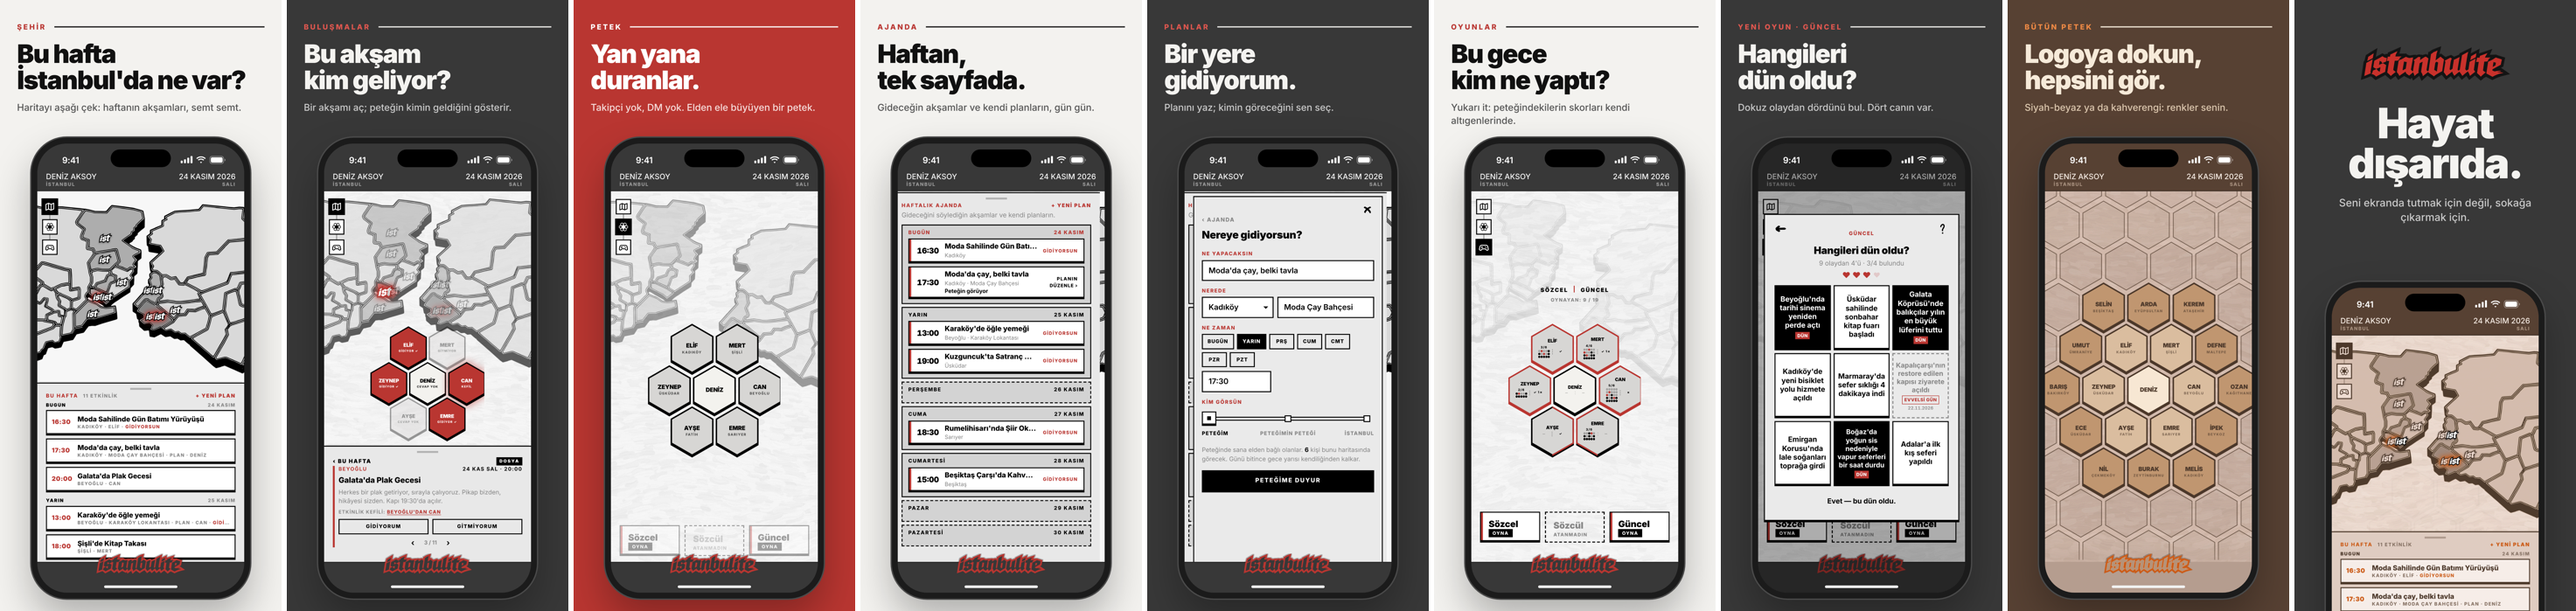
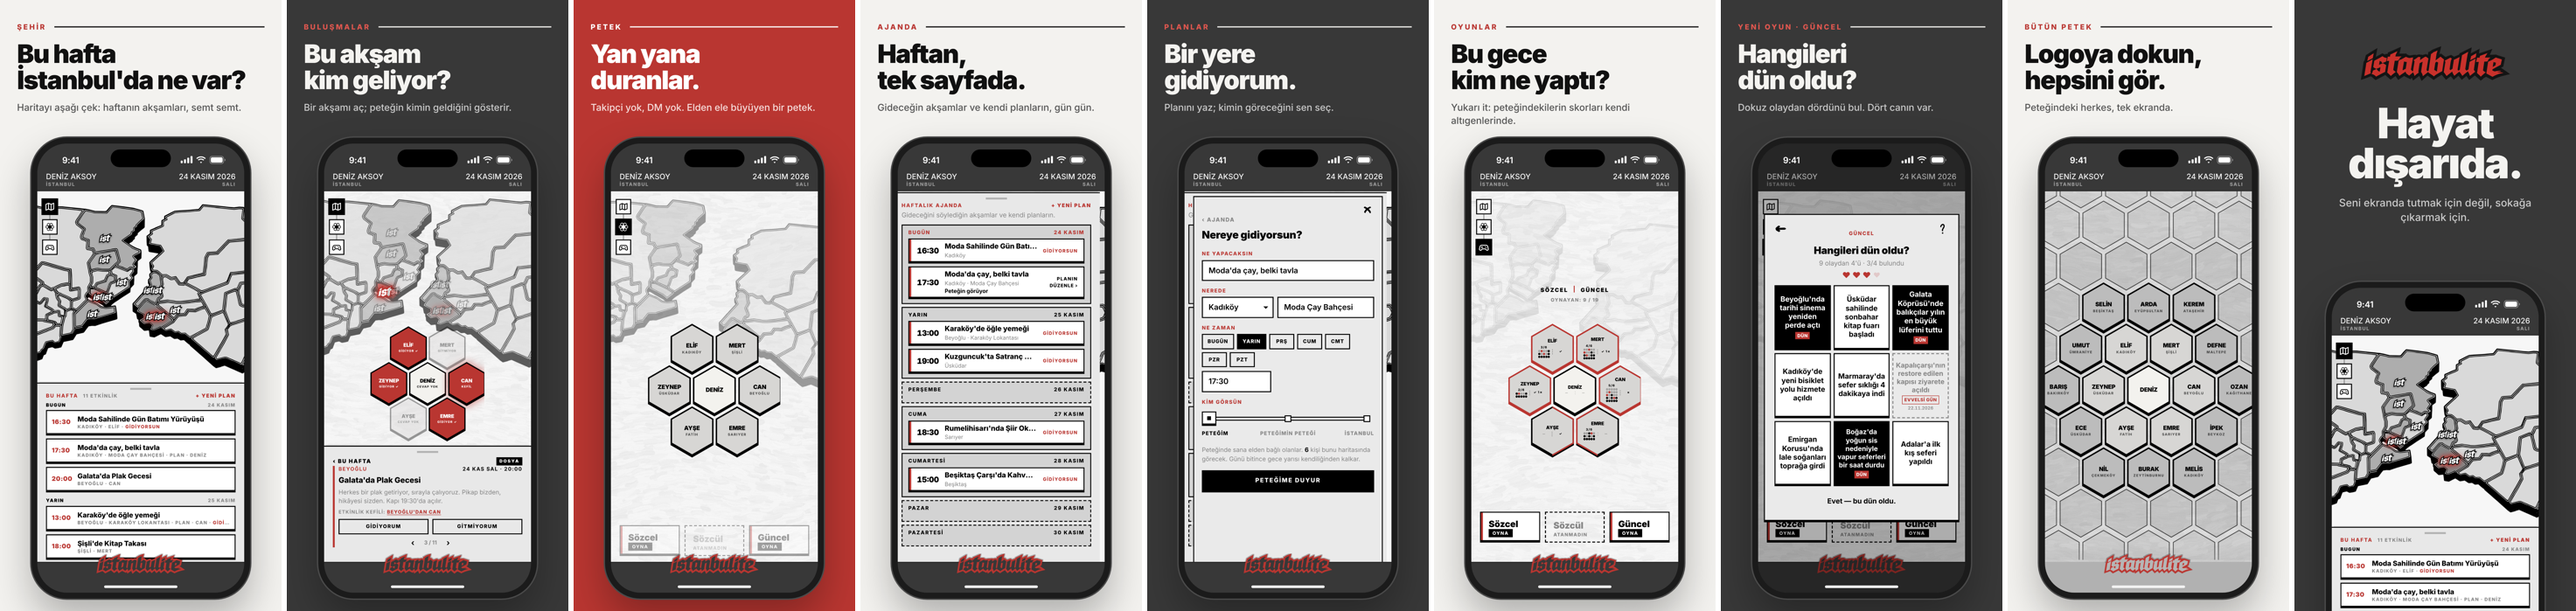
App Store set: black-and-white palette only
Claude-Session: https://claude.ai/code/session_01WehEzUZznKSkxK5yJwXUyi

Changed region(s): [[0.7807, 0.0, 0.9993, 1.0]]

diff --git a/scripts/appstore/compose.js b/scripts/appstore/compose.js
@@ -11,8 +11,8 @@ const FRAMES = [
   { n:'05-plan', img:'plan-day-mono', bar:MONO, bg:'dark', k:'Planlar', h:'Bir yere|gidiyorum.', p:'Planını yaz; kimin göreceğini sen seç.' },
   { n:'06-oyunlar', img:'oyunlar-day-mono', bar:MONO, bg:'', k:'Oyunlar', h:'Bu gece|kim ne yaptı?', p:'Yukarı it: peteğindekilerin skorları kendi altıgenlerinde.' },
   { n:'07-guncel', img:'guncel-day-mono', bar:MONO, bg:'dark', k:'Yeni oyun · Güncel', h:'Hangileri|dün oldu?', p:'Dokuz olaydan dördünü bul. Dört canın var.' },
-  { n:'08-butun-petek', img:'butun-day-earth', bar:EARTH, bg:'earth', k:'Bütün petek', h:'Logoya dokun,|hepsini gör.', p:'Siyah-beyaz ya da kahverengi: renkler senin.' },
-  { n:'09-disarida', img:'sehir-day-earth', bar:EARTH, bg:'dark', closer:1, h:'Hayat|dışarıda.', p:'Seni ekranda tutmak için değil, sokağa çıkarmak için.' },
+  { n:'08-butun-petek', img:'butun-day-mono', bar:MONO, bg:'', k:'Bütün petek', h:'Logoya dokun,|hepsini gör.', p:'Peteğindeki herkes, tek ekranda.' },
+  { n:'09-disarida', img:'sehir-day-mono', bar:MONO, bg:'dark', closer:1, h:'Hayat|dışarıda.', p:'Seni ekranda tutmak için değil, sokağa çıkarmak için.' },
 ];
 (async()=>{
   require('fs').mkdirSync(OUT,{recursive:true});
